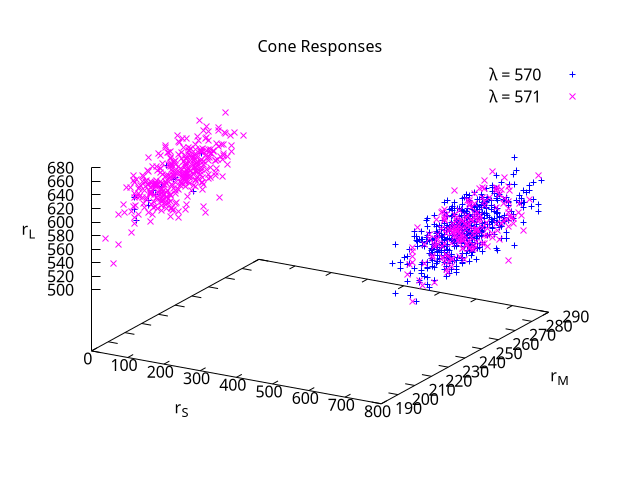
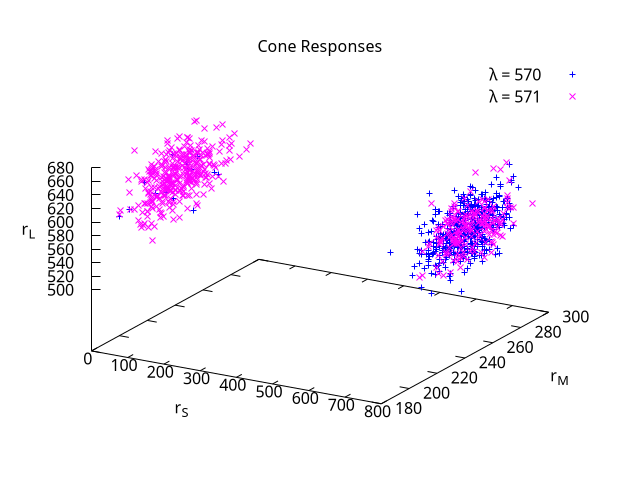
solved g + h

diff --git a/src/homework_4.rs b/src/homework_4.rs
@@ -1,7 +1,8 @@
+use core::f64;
 use std::io::Write;
 use std::ops::Range;
 use std::process::{ChildStdin, Command, Stdio};
-use std::usize;
+use std::{isize, usize};
 
 use crate::rng::{Rng, Seed};
 
@@ -21,6 +22,7 @@ enum Cone {
     M,
     L,
 }
+const CONES: [Cone; 3] = [Cone::S, Cone::M, Cone::L];
 
 #[allow(non_snake_case)]
 #[derive(Debug, Clone)]
@@ -45,16 +47,7 @@ const RED: &str =       "#FF0000";
 const GREEN: &str =     "#00FF00";
 const BLUE: &str =      "#0000FF";
 const MAGENTA: &str =   "#FF00FF";
-
-fn reset_gnuplot(stdin: &mut ChildStdin, colors: impl AsRef<[&'static str]>) {
-    writeln!(stdin, "reset").unwrap();
-
-    for (i, &color) in colors.as_ref().iter().enumerate() {
-        writeln!(stdin, "set style line {} lc rgb \"{}\"", i + 1, color).unwrap();
-    }
-
-    writeln!(stdin, "set terminal pngcairo enhanced").unwrap();
-}
+const BLACK: &str =     "#000000";
 
 pub fn run() {
     // read file
@@ -97,7 +90,9 @@ pub fn run() {
         .collect::<Vec<_>>();
 
     // init rng
-    let mut rng = Rng::new(Seed::new());
+    let seed = Seed(130481809037589250852820291570893062093);
+    println!("seed: {:?}", seed);
+    let mut rng = Rng::new(seed);
 
     // open gnuplot
     let mut gnuplot = Command::new("gnuplot")
@@ -105,7 +100,6 @@ pub fn run() {
         .spawn()
         .expect("gnuplot to spawn");
     let stdin = gnuplot.stdin.as_mut().expect("stdin to exist");
-
 
     // A
     reset_gnuplot(stdin, [BLUE, GREEN, RED]);
@@ -134,7 +128,6 @@ pub fn run() {
     }
     writeln!(stdin, "e").unwrap();
 
-
     // I
     let scenes: &[S] = &[
         S{
@@ -157,30 +150,15 @@ pub fn run() {
         let S { wavelength, delta, I, x_window } = s.clone();
 
         // B + D
-        let cones = [Cone::S, Cone::M, Cone::L];
-
         let x_values = x_window.clone().collect::<Vec<_>>();
-        let mut cone_values = Vec::with_capacity(cones.len());
-        let mut cone_delta_values = Vec::with_capacity(cones.len());
+        let cone_values = build_cone_poisson_distributions(&x_values, &rows, &s, false);
+        let cone_delta_values = build_cone_poisson_distributions(&x_values, &rows, &s, true);
 
-        let mut lambdas = Vec::with_capacity(cones.len());
-        for &cone in cones.iter() {
-            let mut y_values = Vec::with_capacity(x_values.len());
-            let mut y_delta_values = Vec::with_capacity(x_values.len());
-
-            let lambda = mean_r_a(&rows, cone, s)
+        let mut mean_responses = Vec::with_capacity(CONES.len());
+        for &cone in CONES.iter() {
+            let mean_response = mean_r_a(&rows, cone, s.wavelength, s.I)
                 .expect(&format!("mean r_a for wavelength {} to exist", s.wavelength));
-            lambdas.push(lambda);
-
-            for &x in x_values.iter() {
-                let y = poisson_distribution(lambda, x);
-                let y_delta = poisson_distribution(lambda + delta as f64, x);
-                y_values.push(y);
-                y_delta_values.push(y_delta);
-            }
-
-            cone_values.push(y_values);
-            cone_delta_values.push(y_delta_values);
+            mean_responses.push(mean_response);
         }
 
         reset_gnuplot(stdin, [BLUE, GREEN, RED]);
@@ -188,14 +166,13 @@ pub fn run() {
         writeln!(stdin, "set title \"Cone absorption likelihood ({{/Symbol l}} = {})\"", wavelength).unwrap();
         writeln!(stdin, "set xlabel \"Cone absorption r_a\"").unwrap();
         writeln!(stdin, "set ylabel \"Likelihood P(r_a | S = ({{/Symbol l}}, I))\"").unwrap();
-        writeln!(stdin, "set format y").unwrap();
 
-        for (i, &lambda) in lambdas.iter().enumerate() {
+        for (i, &mean_response) in mean_responses.iter().enumerate() {
             let n = i + 1;
-            let mean = lambda;
-            writeln!(stdin, "set arrow {} from {}, graph 0 to {}, graph 1 nohead ls {}", n, mean, mean, n).unwrap();
+            let m = mean_response;
+            writeln!(stdin, "set arrow {} from {}, graph 0 to {}, graph 1 nohead ls {}", n, m, m, n).unwrap();
 
-            writeln!(stdin, "set label {} \"mean\" at {}, graph 1 offset 1,-{} tc ls {}", n, mean, i + 1, n).unwrap();
+            writeln!(stdin, "set label {} \"mean\" at {}, graph 1 offset 1,-{} tc ls {}", n, m, i + 1, n).unwrap();
         }
 
         write!(stdin, "plot").unwrap();
@@ -321,14 +298,172 @@ achieve, even with a delta lambda of just 1"
             already_logged = true;
         }
 
-        // G
+        // G + H
+        let mut all_error_values = Vec::with_capacity(CONES.len());
+        for (i, &cone) in CONES.iter().enumerate() {
+            // find most sampled response
+            // key: response, value: count
+            let mut lookup = std::collections::HashMap::<usize, usize>::new();
+            for &sample in samples_0.iter() {
+                let coord = get_coord(sample, cone);
+                match lookup.get_mut(&coord) {
+                    Some(count) => *count += 1,
+                    None => _ = lookup.insert(coord, 1),
+                }
+            }
+
+            let mut buckets = lookup.into_iter();
+            let (mut max_response, mut max_count) = buckets.next().expect("at least one sample");
+            while let Some((response, count)) = buckets.next() {
+                if count > max_count {
+                    max_response = response;
+                    max_count = count;
+                }
+            }
+
+            println!("max response for cone {:?} is {}", cone, max_response);
+
+            // find wavelength, which peaks at `max_response`
+            let mut error_values = Vec::new();
+            for wavelength in (400..700).step_by(5) {
+                let mut s_ = s.clone();
+                s_.wavelength = wavelength;
+
+                let distributions = build_cone_poisson_distributions(&x_values, &rows, &s_, false);
+                let mut distribution = distributions[i].iter().enumerate();
+                let first = distribution.next().expect("one entry to exist");
+                let mut peak_i = first.0;
+                let mut peak_y = *first.1;
+
+                if peak_y.is_infinite() {
+                    peak_y = 0.0;
+                }
+
+                for (i, &y) in distribution {
+                    if y.is_infinite() {
+                        continue;
+                    }
+
+                    if y > peak_y {
+                        peak_i = i;
+                        peak_y = y;
+                    }
+                }
+
+                let error = peak_i as isize - max_response as isize;
+                error_values.push((wavelength, error));
+            }
+
+            // find min error
+            let mut min_wavelength = 0;
+            let mut min_error = isize::MAX;
+            for &(wavelength, error) in error_values.iter().rev() {
+                if error.abs() < min_error.abs() {
+                    min_wavelength = wavelength;
+                    min_error = error;
+                }
+            }
+
+            let decoding_error = min_wavelength as isize - s.wavelength as isize;
+            println!(
+                "min error: {} for cone: {:?} is wavelength: {}. decoding error: {}",
+                min_error,
+                cone,
+                min_wavelength,
+                decoding_error,
+            );
+
+            all_error_values.push((error_values, min_wavelength));
+        }
+
+        reset_gnuplot(stdin, [BLUE, GREEN, RED, BLACK]);
+        writeln!(stdin,"set output \"homework_4_G_decoding_error_w={}_I={}.png\"", wavelength, I).unwrap();
+        writeln!(stdin, "set title \"Decoding error\"").unwrap();
+        writeln!(stdin, "set xlabel \"Wavelength {{/Symbol l}} (nm)\"").unwrap();
+        writeln!(stdin, "set ylabel \"Response error r'_a - r_a\"").unwrap();
+
+        for (i, (_, decoding_error)) in all_error_values.iter().enumerate() {
+            let n = i + 1;
+            let d = decoding_error;
+            writeln!(stdin, "set arrow {} from {}, graph 0 to {}, graph 1 nohead ls {}", n, d, d, n).unwrap();
+            writeln!(stdin, "set label {} \"{{/Symbol l}}'\" at {}, graph 1 offset 1,-{} tc ls {}", n, d, n, n).unwrap();
+        }
+
+        let n = 4;
+        let d = s.wavelength;
+        writeln!(stdin, "set arrow {} from {}, graph 0 to {}, graph 1 nohead ls {}", n, d, d, n).unwrap();
+        writeln!(stdin, "set label {} \"{{/Symbol l}}\" at {}, graph 1 offset 1,-{} tc ls {}", n, d, n, n).unwrap();
+
+        write!(stdin, "plot").unwrap();
+        write!(stdin, " '-' w l ls 1 title \"S\", ").unwrap();
+        write!(stdin, " '-' w l ls 2 title \"M\", ").unwrap();
+        write!(stdin, " '-' w l ls 3 title \"L\"").unwrap();
+        writeln!(stdin).unwrap();
+
+        for (error_values, _) in all_error_values.iter() {
+            for &(x, y) in error_values.iter() {
+                writeln!(stdin, "{} {}", x, y).unwrap();
+            }
+
+            writeln!(stdin, "e").unwrap();
+        }
     }
 }
 
-fn mean_r_a(rows: &[Row], a: Cone, s: &S) -> Option<f64> {
+fn reset_gnuplot(stdin: &mut ChildStdin, colors: impl AsRef<[&'static str]>) {
+    writeln!(stdin, "reset").unwrap();
+
+    for (i, &color) in colors.as_ref().iter().enumerate() {
+        writeln!(stdin, "set style line {} lc rgb \"{}\"", i + 1, color).unwrap();
+    }
+
+    writeln!(stdin, "set terminal pngcairo enhanced").unwrap();
+}
+
+fn build_cone_poisson_distributions(
+    x_values: &[usize],
+    rows: &[Row],
+    s: &S,
+    apply_delta: bool,
+) -> Vec<Vec<f64>>{
+    let mut cone_values = Vec::with_capacity(CONES.len());
+
+    let mut lambdas = Vec::with_capacity(CONES.len());
+    for &cone in CONES.iter() {
+        let mut y_values = Vec::with_capacity(x_values.len());
+
+        let mut lambda = mean_r_a(&rows, cone, s.wavelength, s.I)
+            .expect(&format!("mean r_a for wavelength {} to exist", s.wavelength));
+        lambdas.push(lambda);
+
+        if apply_delta {
+            lambda += s.delta as f64;
+        }
+
+        for &x in x_values.iter() {
+            let y = poisson_distribution(lambda, x);
+            y_values.push(y);
+        }
+
+        cone_values.push(y_values);
+    }
+
+    cone_values
+}
+
+fn get_coord(sample: (usize, usize, usize), cone: Cone) -> usize {
+    match cone {
+        Cone::S => sample.0,
+        Cone::M => sample.1,
+        Cone::L => sample.2,
+    }
+}
+
+#[allow(non_snake_case)]
+fn mean_r_a(rows: &[Row], a: Cone, wavelength: usize, I: usize) -> Option<f64> {
     for row in rows {
-        if row.wavelength == s.wavelength {
-            return Some(s.I as f64 * row.sensitivity(a));
+        if row.wavelength == wavelength {
+            return Some(I as f64 * row.sensitivity(a));
         }
     }
 